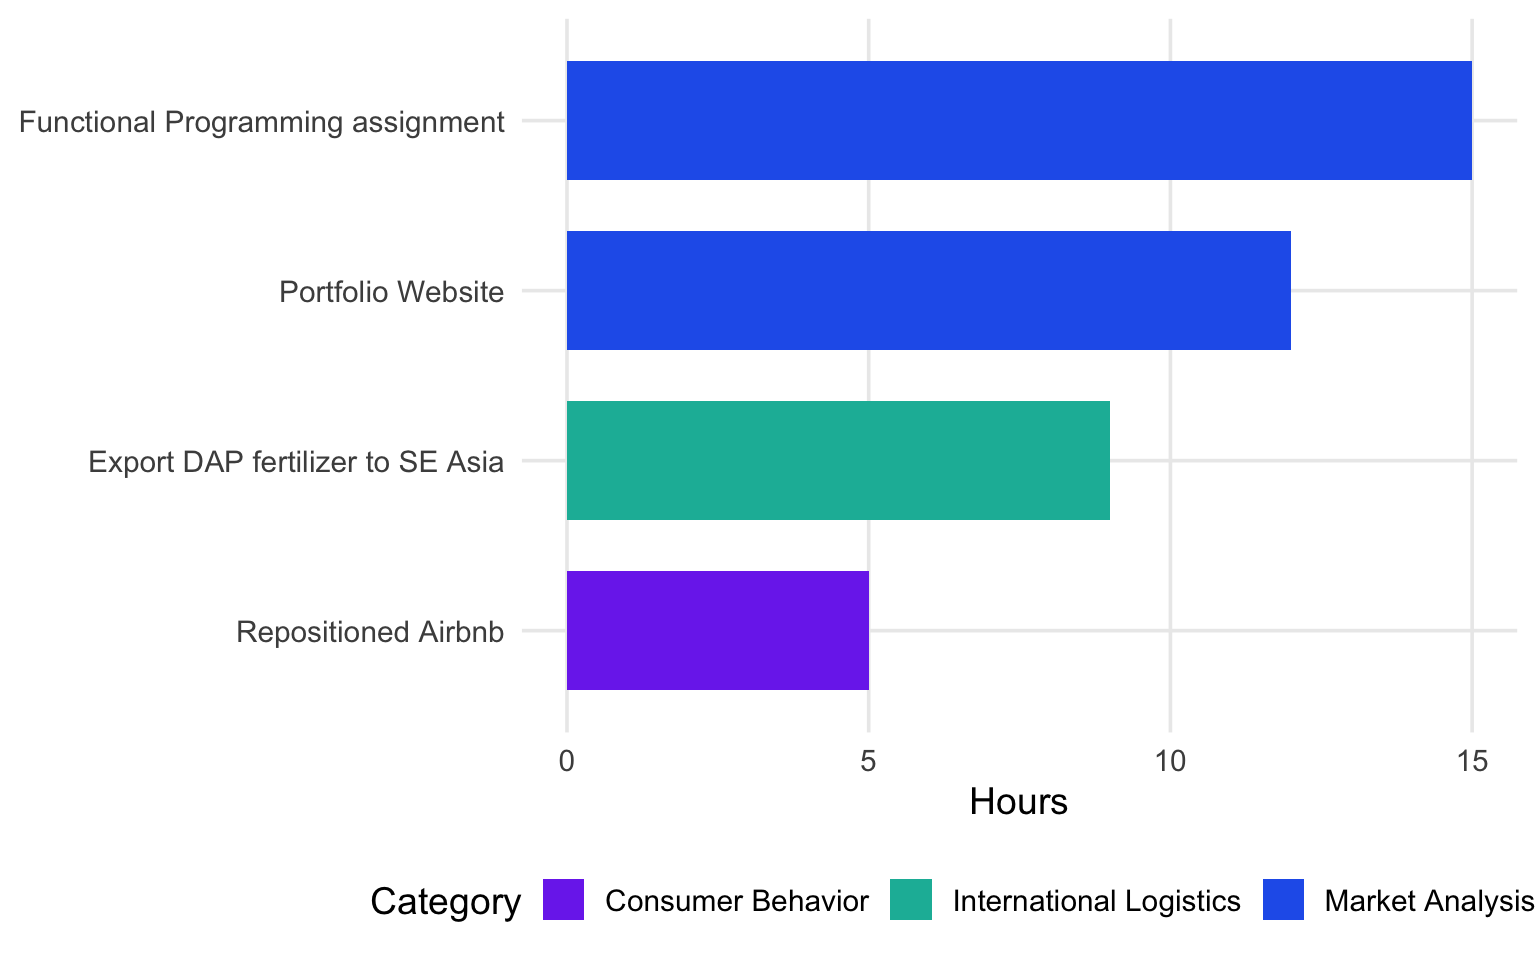
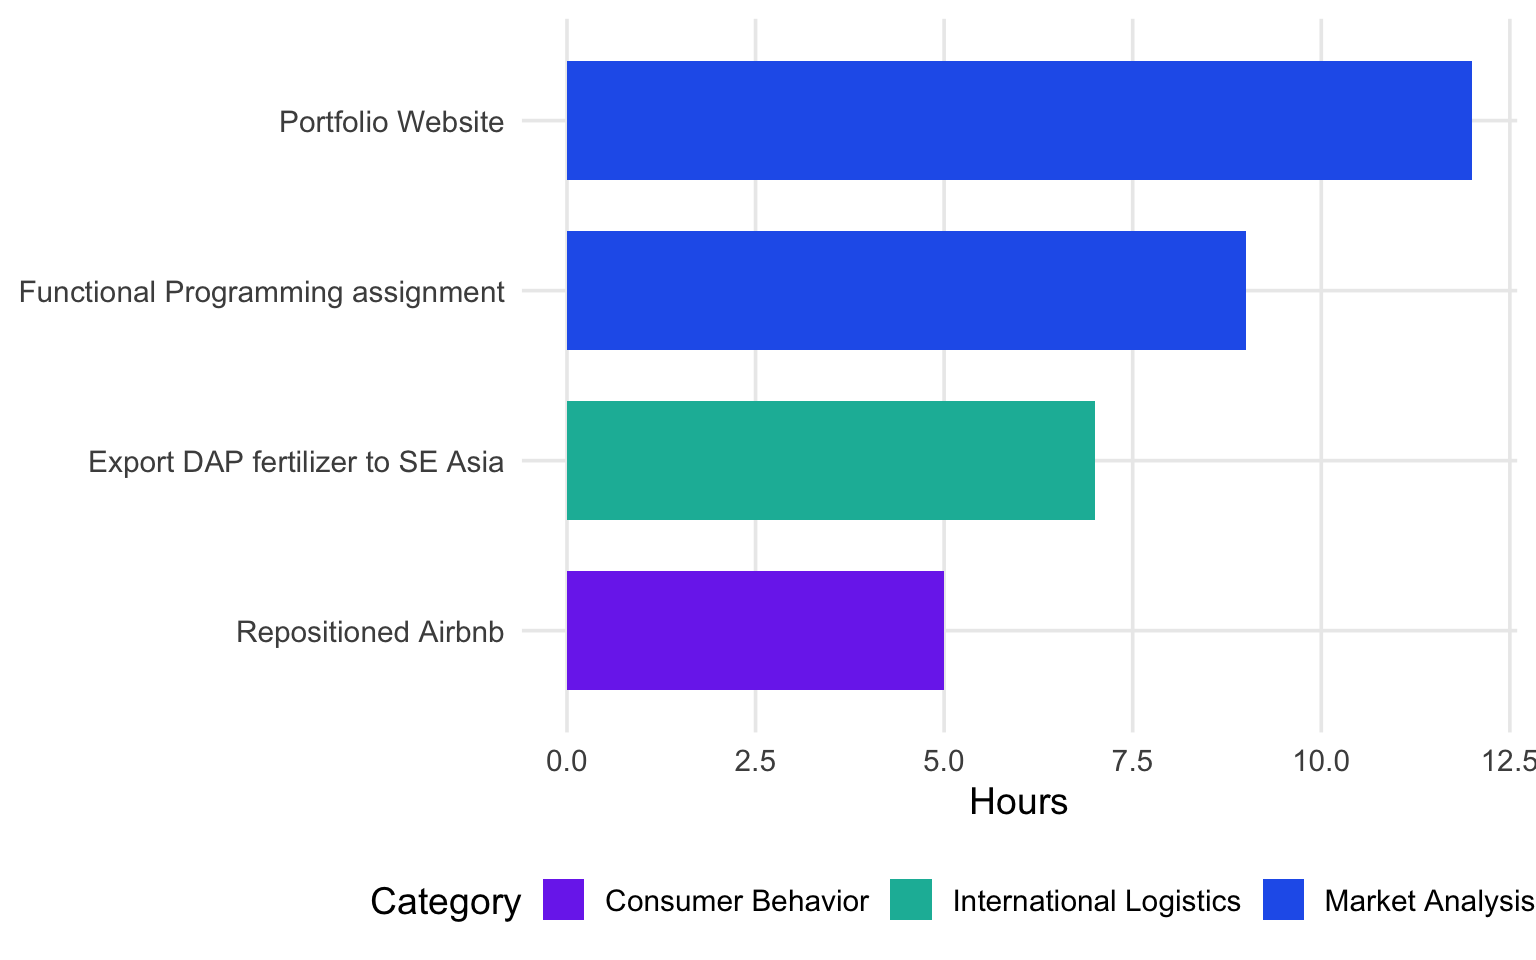
Built site for gh-pages

diff --git a/dashboard.html b/dashboard.html
@@ -133,7 +133,7 @@ ul.task-list li input[type="checkbox"] {
   </li>  
   <li class="nav-item">
     <a class="nav-link" href="./google-analytics.html"> 
-<span class="menu-text">Google Analytics</span></a>
+<span class="menu-text">Google Search Console</span></a>
   </li>  
 </ul>
           </div> <!-- /navcollapse -->
@@ -197,7 +197,7 @@ Total Projects &amp; Assignments
 Completed
 </p>
 <p class="value-box-value">
-3
+4
 </p>
 </div>
 </div>
@@ -213,7 +213,7 @@ Completed
 In Progress
 </p>
 <p class="value-box-value">
-1
+0
 </p>
 </div>
 </div>
@@ -229,7 +229,7 @@ In Progress
 Average Progress
 </p>
 <p class="value-box-value">
-99%
+100%
 </p>
 </div>
 </div>
@@ -276,8 +276,8 @@ Project and Assignment Table
 </span></div></div>
 <div class="card-body html-fill-item html-fill-container">
 <div class="cell-output-display html-fill-item html-fill-container">
-<div class="datatables html-widget html-fill-item html-fill-container" id="htmlwidget-f6107564dc0f92869c06" style="width:100%;height:auto;"></div>
-<script type="application/json" data-for="htmlwidget-f6107564dc0f92869c06">{"x":{"filter":"none","vertical":false,"data":[["Portfolio Website","Repositioned Airbnb","Export DAP fertilizer to SE Asia","Functional Programming assignment"],["Project","Project","Project","Assignment"],["In Progress","Completed","Completed","Completed"],["Market Analysis &amp; Control","Consumer Behavior","International Logistics","Market Analysis &amp; Control"],[95,100,100,100],[12,5,9,15]],"container":"<table class=\"display\">\n  <thead>\n    <tr>\n      <th>project<\/th>\n      <th>type<\/th>\n      <th>status<\/th>\n      <th>category<\/th>\n      <th>progress<\/th>\n      <th>hours<\/th>\n    <\/tr>\n  <\/thead>\n<\/table>","options":{"bPaginate":false,"dom":"ifrt","language":{"info":"Showing _TOTAL_ entries"},"pageLength":3,"searching":true,"lengthChange":false,"columnDefs":[{"className":"dt-right","targets":[4,5]},{"name":"project","targets":0},{"name":"type","targets":1},{"name":"status","targets":2},{"name":"category","targets":3},{"name":"progress","targets":4},{"name":"hours","targets":5}],"order":[],"autoWidth":false,"orderClasses":false}},"evals":[],"jsHooks":[]}</script>
+<div class="datatables html-widget html-fill-item html-fill-container" id="htmlwidget-082934f9663a59179372" style="width:100%;height:auto;"></div>
+<script type="application/json" data-for="htmlwidget-082934f9663a59179372">{"x":{"filter":"none","vertical":false,"data":[["Portfolio Website","Repositioned Airbnb","Export DAP fertilizer to SE Asia","Functional Programming assignment"],["Project","Project","Project","Assignment"],["Completed","Completed","Completed","Completed"],["Market Analysis &amp; Control","Consumer Behavior","International Logistics","Market Analysis &amp; Control"],[100,100,100,100],[12,5,7,9]],"container":"<table class=\"display\">\n  <thead>\n    <tr>\n      <th>project<\/th>\n      <th>type<\/th>\n      <th>status<\/th>\n      <th>category<\/th>\n      <th>progress<\/th>\n      <th>hours<\/th>\n    <\/tr>\n  <\/thead>\n<\/table>","options":{"bPaginate":false,"dom":"ifrt","language":{"info":"Showing _TOTAL_ entries"},"pageLength":3,"searching":true,"lengthChange":false,"columnDefs":[{"className":"dt-right","targets":[4,5]},{"name":"project","targets":0},{"name":"type","targets":1},{"name":"status","targets":2},{"name":"category","targets":3},{"name":"progress","targets":4},{"name":"hours","targets":5}],"order":[],"autoWidth":false,"orderClasses":false}},"evals":[],"jsHooks":[]}</script>
 </div>
 </div>
 <bslib-tooltip placement="auto" bsoptions="[]" data-require-bs-version="5" data-require-bs-caller="tooltip()">
@@ -306,7 +306,7 @@ work
 </li>
 <li>Added a searchable project table<br>
 </li>
-<li>Next step: connect real GitHub and live demo links</li>
+<li>Next step: turn in</li>
 </ul>
 </div>
 <bslib-tooltip placement="auto" bsoptions="[]" data-require-bs-version="5" data-require-bs-caller="tooltip()">

diff --git a/google-analytics.html b/google-analytics.html
@@ -7,7 +7,7 @@
 <meta name="viewport" content="width=device-width, initial-scale=1.0, user-scalable=yes">
 
 
-<title>Google Analytics – Alejandro Camara</title>
+<title>Google Search Console – Alejandro Camara</title>
 <style>
 /* Default styles provided by pandoc.
 ** See https://pandoc.org/MANUAL.html#variables-for-html for config info.
@@ -110,7 +110,7 @@ ul.task-list li input[type="checkbox"] {
   </li>  
   <li class="nav-item">
     <a class="nav-link active" href="./google-analytics.html" aria-current="page"> 
-<span class="menu-text">Google Analytics</span></a>
+<span class="menu-text">Google Search Console</span></a>
   </li>  
 </ul>
           </div> <!-- /navcollapse -->
@@ -129,7 +129,7 @@ ul.task-list li input[type="checkbox"] {
 
 <header id="title-block-header" class="quarto-title-block default">
 <div class="quarto-title">
-<h1 class="title">Google Analytics</h1>
+<h1 class="title">Google Search Console</h1>
 </div>
 
 
@@ -146,9 +146,14 @@ ul.task-list li input[type="checkbox"] {
 </header>
 
 
-<p>Look at stats</p>
+<section id="performance-report" class="level2">
+<h2 class="anchored" data-anchor-id="performance-report">Performance report</h2>
+<p><img src="images/search-console.png" class="img-fluid"></p>
+<p>My portfolio website is connected to Google Search Console to monitor its visibility in Google Search. The Performance report tracks total clicks, total impressions, average click-through rate, and average search position over time.</p>
+<p>As seen in the Performance report above, from April 24 to May 12, my portfolio website began appearing in Google Search results, receiving 3 impressions with an average search position of 43. Since the website is still fairly new, this report provides an early glimpse of the site’s current search visibility.</p>
 
 
+</section>
 
 </main> <!-- /main -->
 <script id="quarto-html-after-body" type="application/javascript">

diff --git a/resume.html b/resume.html
@@ -6,7 +6,7 @@
 
 <meta name="viewport" content="width=device-width, initial-scale=1.0, user-scalable=yes">
 
-<meta name="dcterms.date" content="2026-05-11">
+<meta name="dcterms.date" content="2026-05-12">
 
 <title>Resume – Alejandro Camara</title>
 <style>
@@ -146,7 +146,7 @@ pre > code.sourceCode > span > a:first-child::before { text-decoration: underlin
   </li>  
   <li class="nav-item">
     <a class="nav-link" href="./google-analytics.html"> 
-<span class="menu-text">Google Analytics</span></a>
+<span class="menu-text">Google Search Console</span></a>
   </li>  
 </ul>
           </div> <!-- /navcollapse -->
@@ -176,7 +176,7 @@ pre > code.sourceCode > span > a:first-child::before { text-decoration: underlin
     <div>
     <div class="quarto-title-meta-heading">Published</div>
     <div class="quarto-title-meta-contents">
-      <p class="date">May 11, 2026</p>
+      <p class="date">May 12, 2026</p>
     </div>
   </div>
   

diff --git a/index.html b/index.html
@@ -109,7 +109,7 @@ ul.task-list li input[type="checkbox"] {
   </li>  
   <li class="nav-item">
     <a class="nav-link" href="./google-analytics.html"> 
-<span class="menu-text">Google Analytics</span></a>
+<span class="menu-text">Google Search Console</span></a>
   </li>  
 </ul>
           </div> <!-- /navcollapse -->
@@ -126,6 +126,8 @@ ul.task-list li input[type="checkbox"] {
 <!-- main -->
 <div class="quarto-about-trestles">
   <div class="about-entity">
+    <img src="images/photo.png" class="about-image
+  rounded " style="width: 20em;">
 <header id="title-block-header" class="quarto-title-block default">
 <div class="quarto-title">
 <h1 class="title">Hi, I’m Alejandro Camara</h1>

diff --git a/projects.html b/projects.html
@@ -110,7 +110,7 @@ ul.task-list li input[type="checkbox"] {
   </li>  
   <li class="nav-item">
     <a class="nav-link" href="./google-analytics.html"> 
-<span class="menu-text">Google Analytics</span></a>
+<span class="menu-text">Google Search Console</span></a>
   </li>  
 </ul>
           </div> <!-- /navcollapse -->

diff --git a/revealjs-presentation.html b/revealjs-presentation.html
@@ -110,7 +110,7 @@ ul.task-list li input[type="checkbox"] {
   </li>  
   <li class="nav-item">
     <a class="nav-link" href="./google-analytics.html"> 
-<span class="menu-text">Google Analytics</span></a>
+<span class="menu-text">Google Search Console</span></a>
   </li>  
 </ul>
           </div> <!-- /navcollapse -->